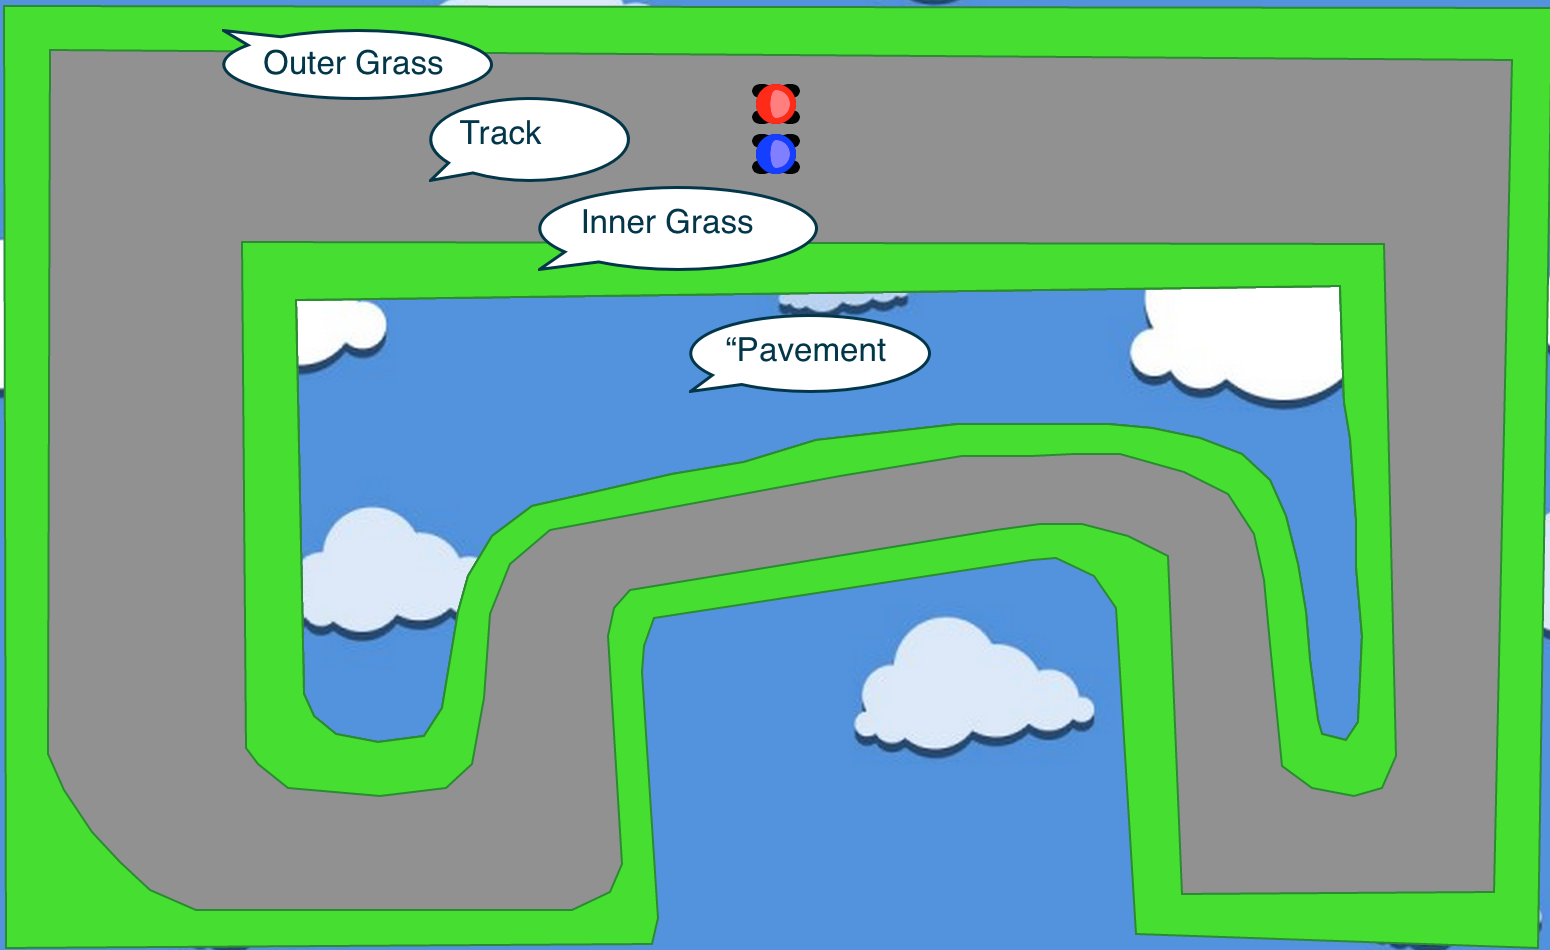
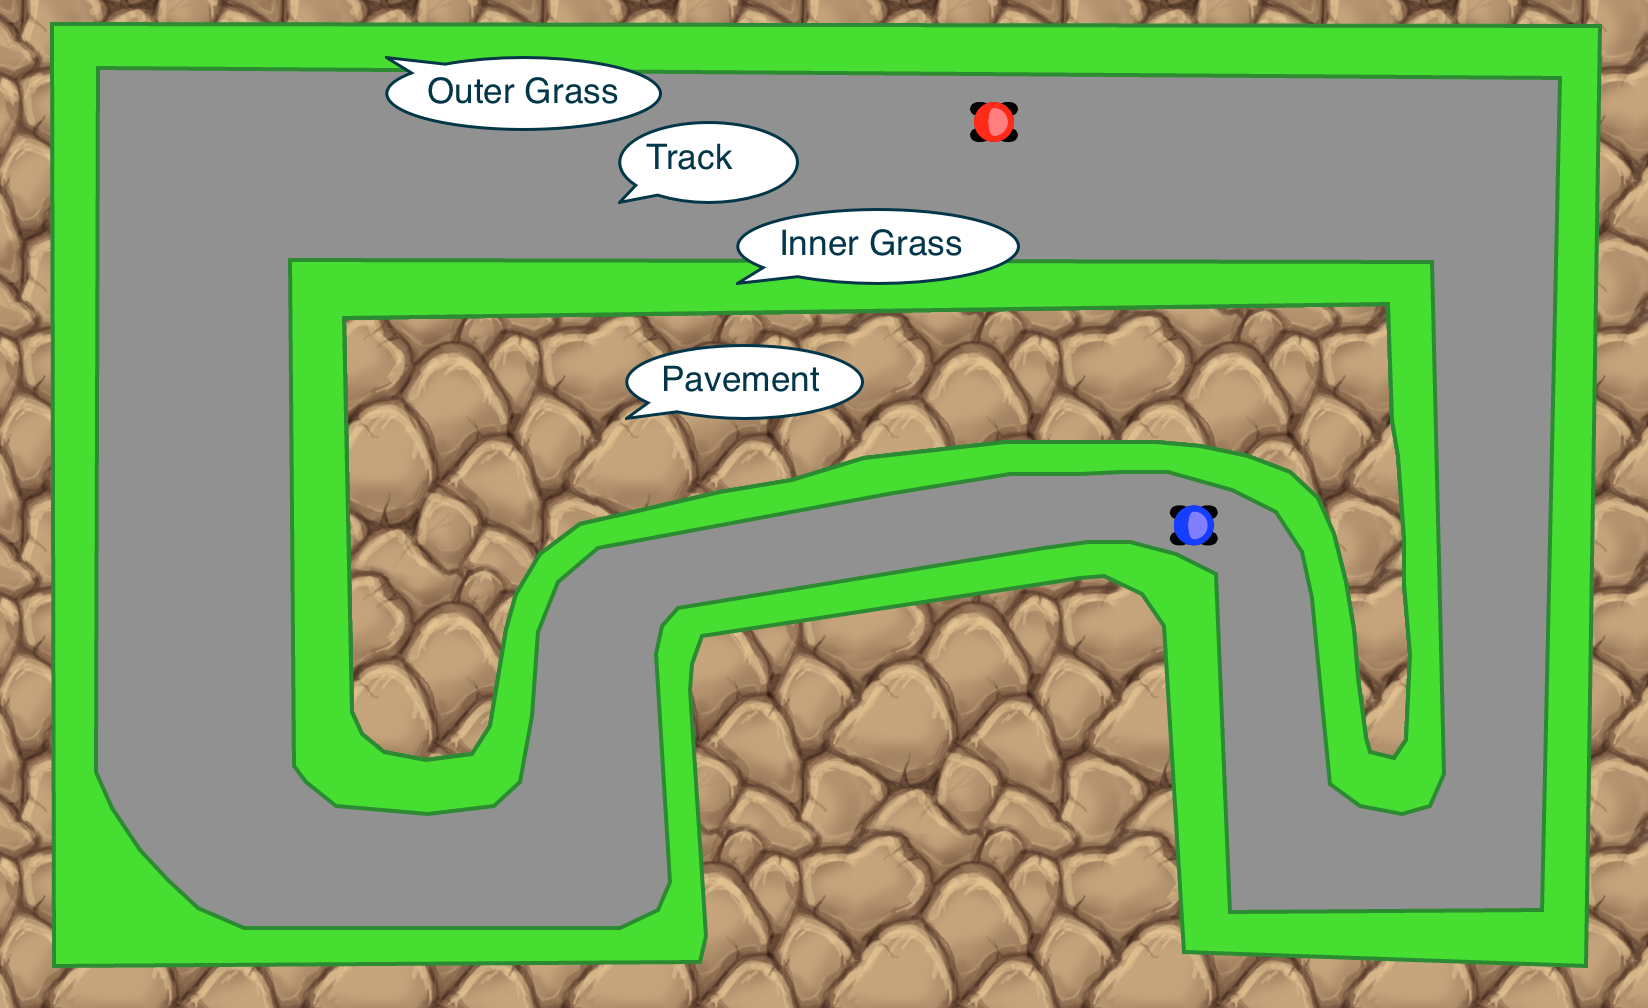
changess

diff --git a/src/main/webapp/static/css/style.css b/src/main/webapp/static/css/style.css
@@ -7,7 +7,9 @@
 
 body {
     font-family: digi;
-    background: url(../images/cloud.jpg);
+    background: url(../images/rocks.png);
+    background-size: 130px;
+    background-repeat: repeat;
 
     text-align: center;
     padding-top: 0px;
@@ -16,14 +18,14 @@ h3 {
     font-size: 28px;
 }
 .title {
-    background: rgb(122,188,255); /* Old browsers */
-    background: -moz-linear-gradient(top,  rgba(122,188,255,1) 0%, rgba(96,171,248,1) 44%, rgba(64,150,238,1) 100%); /* FF3.6+ */
-    background: -webkit-gradient(linear, left top, left bottom, color-stop(0%,rgba(122,188,255,1)), color-stop(44%,rgba(96,171,248,1)), color-stop(100%,rgba(64,150,238,1))); /* Chrome,Safari4+ */
-    background: -webkit-linear-gradient(top,  rgba(122,188,255,1) 0%,rgba(96,171,248,1) 44%,rgba(64,150,238,1) 100%); /* Chrome10+,Safari5.1+ */
-    background: -o-linear-gradient(top,  rgba(122,188,255,1) 0%,rgba(96,171,248,1) 44%,rgba(64,150,238,1) 100%); /* Opera 11.10+ */
-    background: -ms-linear-gradient(top,  rgba(122,188,255,1) 0%,rgba(96,171,248,1) 44%,rgba(64,150,238,1) 100%); /* IE10+ */
-    background: linear-gradient(to bottom,  rgba(122,188,255,1) 0%,rgba(96,171,248,1) 44%,rgba(64,150,238,1) 100%); /* W3C */
-    filter: progid:DXImageTransform.Microsoft.gradient( startColorstr='#7abcff', endColorstr='#4096ee',GradientType=0 ); /* IE6-9 */
+    background: rgb(248,255,232); /* Old browsers */
+    background: -moz-linear-gradient(top,  rgba(248,255,232,1) 0%, rgba(227,245,171,1) 33%, rgba(183,223,45,1) 100%); /* FF3.6+ */
+    background: -webkit-gradient(linear, left top, left bottom, color-stop(0%,rgba(248,255,232,1)), color-stop(33%,rgba(227,245,171,1)), color-stop(100%,rgba(183,223,45,1))); /* Chrome,Safari4+ */
+    background: -webkit-linear-gradient(top,  rgba(248,255,232,1) 0%,rgba(227,245,171,1) 33%,rgba(183,223,45,1) 100%); /* Chrome10+,Safari5.1+ */
+    background: -o-linear-gradient(top,  rgba(248,255,232,1) 0%,rgba(227,245,171,1) 33%,rgba(183,223,45,1) 100%); /* Opera 11.10+ */
+    background: -ms-linear-gradient(top,  rgba(248,255,232,1) 0%,rgba(227,245,171,1) 33%,rgba(183,223,45,1) 100%); /* IE10+ */
+    background: linear-gradient(to bottom,  rgba(248,255,232,1) 0%,rgba(227,245,171,1) 33%,rgba(183,223,45,1) 100%); /* W3C */
+    filter: progid:DXImageTransform.Microsoft.gradient( startColorstr='#f8ffe8', endColorstr='#b7df2d',GradientType=0 ); /* IE6-9 */
 
     border-top: 1px solid #11183a;
     border-bottom: 1px solid #11183a;
@@ -40,7 +42,7 @@ h2 {
     font-weight: bold;
     text-align: center;
     font-size: 40px;
-    color: #41e9ff;
+    color: #1d530e;
 }
 
 .center {
@@ -91,7 +93,7 @@ input[type=text] {
     -webkit-animation-delay:1s; /* Safari and Chrome */
     font-size: 18px;
     color: white;
-    background: rgba(71, 107, 255, 0.5);
+    background: rgba(7, 89, 52, 0.50);
 }
 
 #results {

diff --git a/src/main/webapp/static/js/main.js b/src/main/webapp/static/js/main.js
@@ -254,19 +254,6 @@ function initState() {
     carColor = null;
 }
 
-function draw() {
-    canvas.clearRect(0, 0, CANVAS_WIDTH, CANVAS_HEIGHT);
-    if (game == null || game.status != 'IN_PROGRESS') {
-        return;
-    }
-    canvas.strokeStyle="#FF0000";
-    canvas.fillStyle = 'red';
-
-//    createTrack(game.track);
-
-
-}
-
 function createTrack(track) {
     trackPaths = {
         outerGrass: new Path(),
@@ -276,13 +263,16 @@ function createTrack(track) {
     };
     trackPaths.outerGrass = new CompoundPath(createTrackPath(track.outerGrass), createTrackPath(track.pavement));
     trackPaths.outerGrass.fillColor = '#45DE31';
+    trackPaths.outerGrass.strokeWidth = 2;
     trackPaths.outerGrass.strokeColor = '#2C8A32';
     trackPaths.track = new CompoundPath(createTrackPath(track.track), createTrackPath(track.pavement));
     trackPaths.track.fillColor = '#919191';
     trackPaths.track.strokeColor = '#2C8A32';
+    trackPaths.track.strokeWidth = 2;
     trackPaths.innerGrass = new CompoundPath(createTrackPath(track.innerGrass), createTrackPath(track.pavement));
     trackPaths.innerGrass.fillColor = '#45DE31';
     trackPaths.innerGrass.strokeColor = '#2C8A32';
+    trackPaths.innerGrass.strokeWidth = 2;
 }
 
 function createPlayers(data) {
